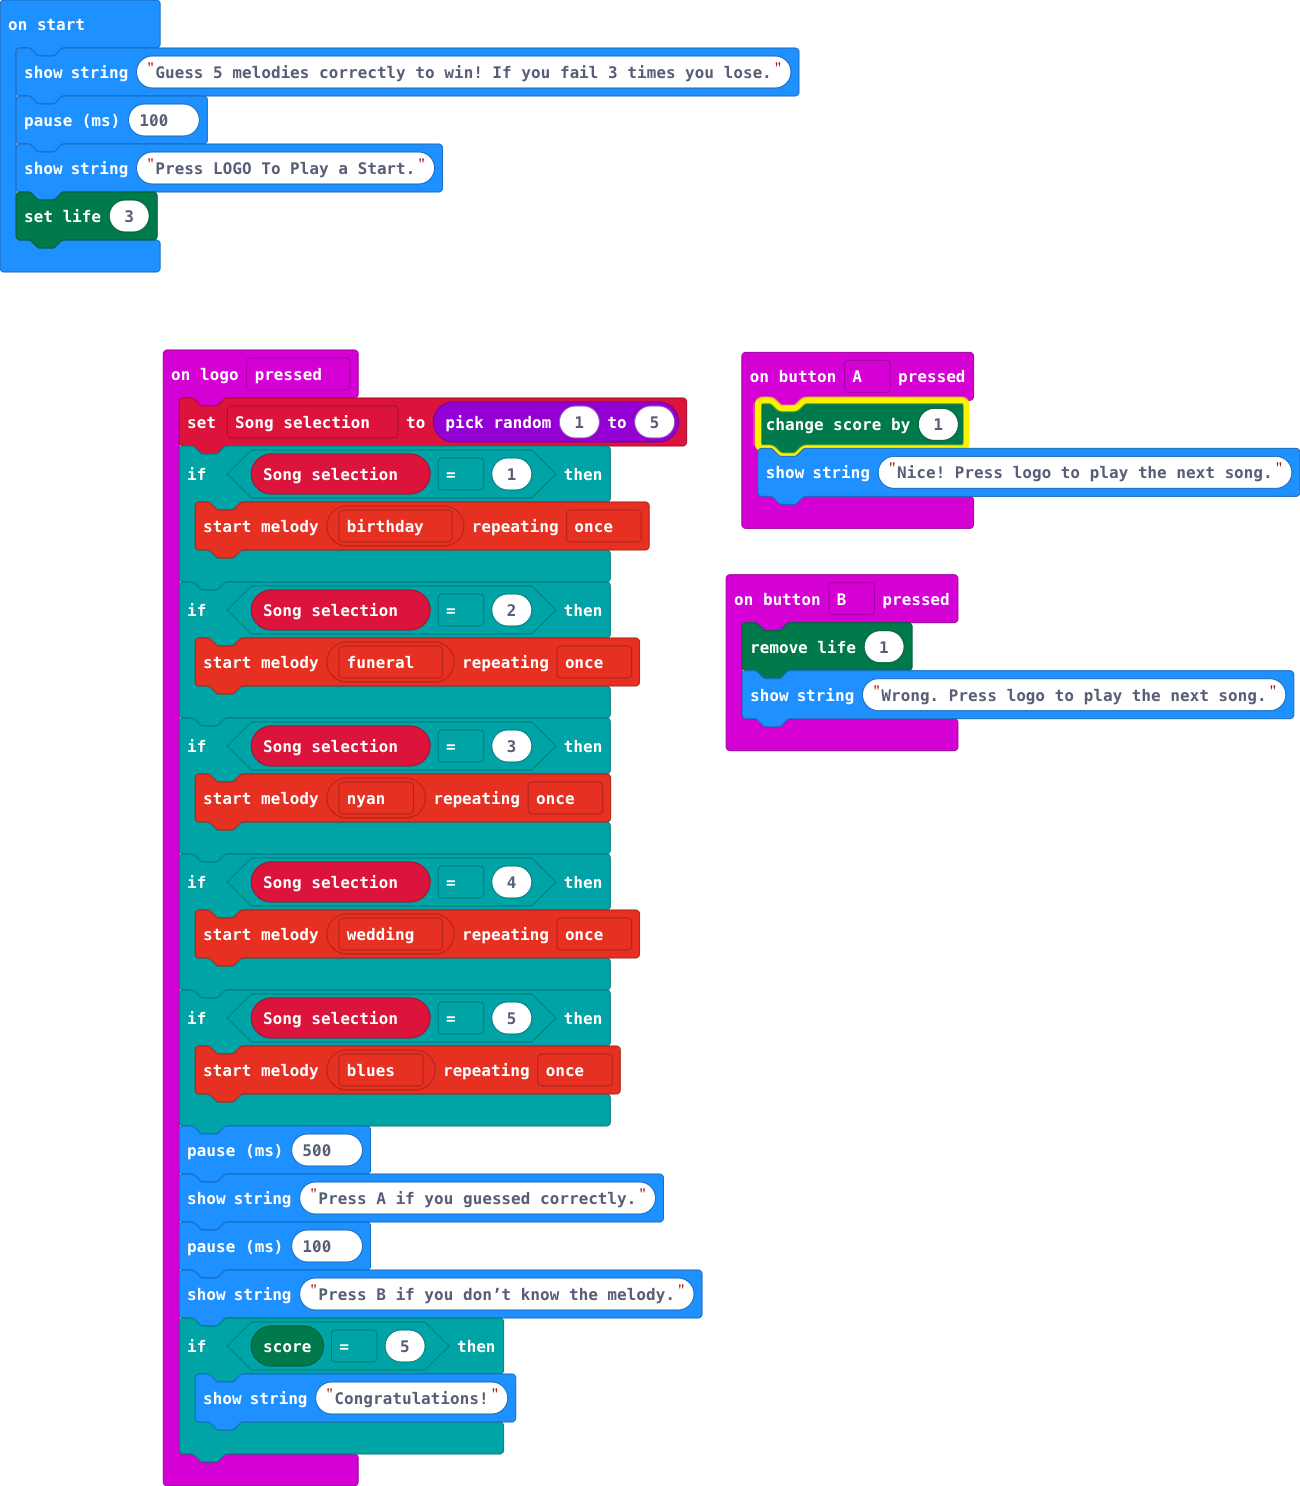
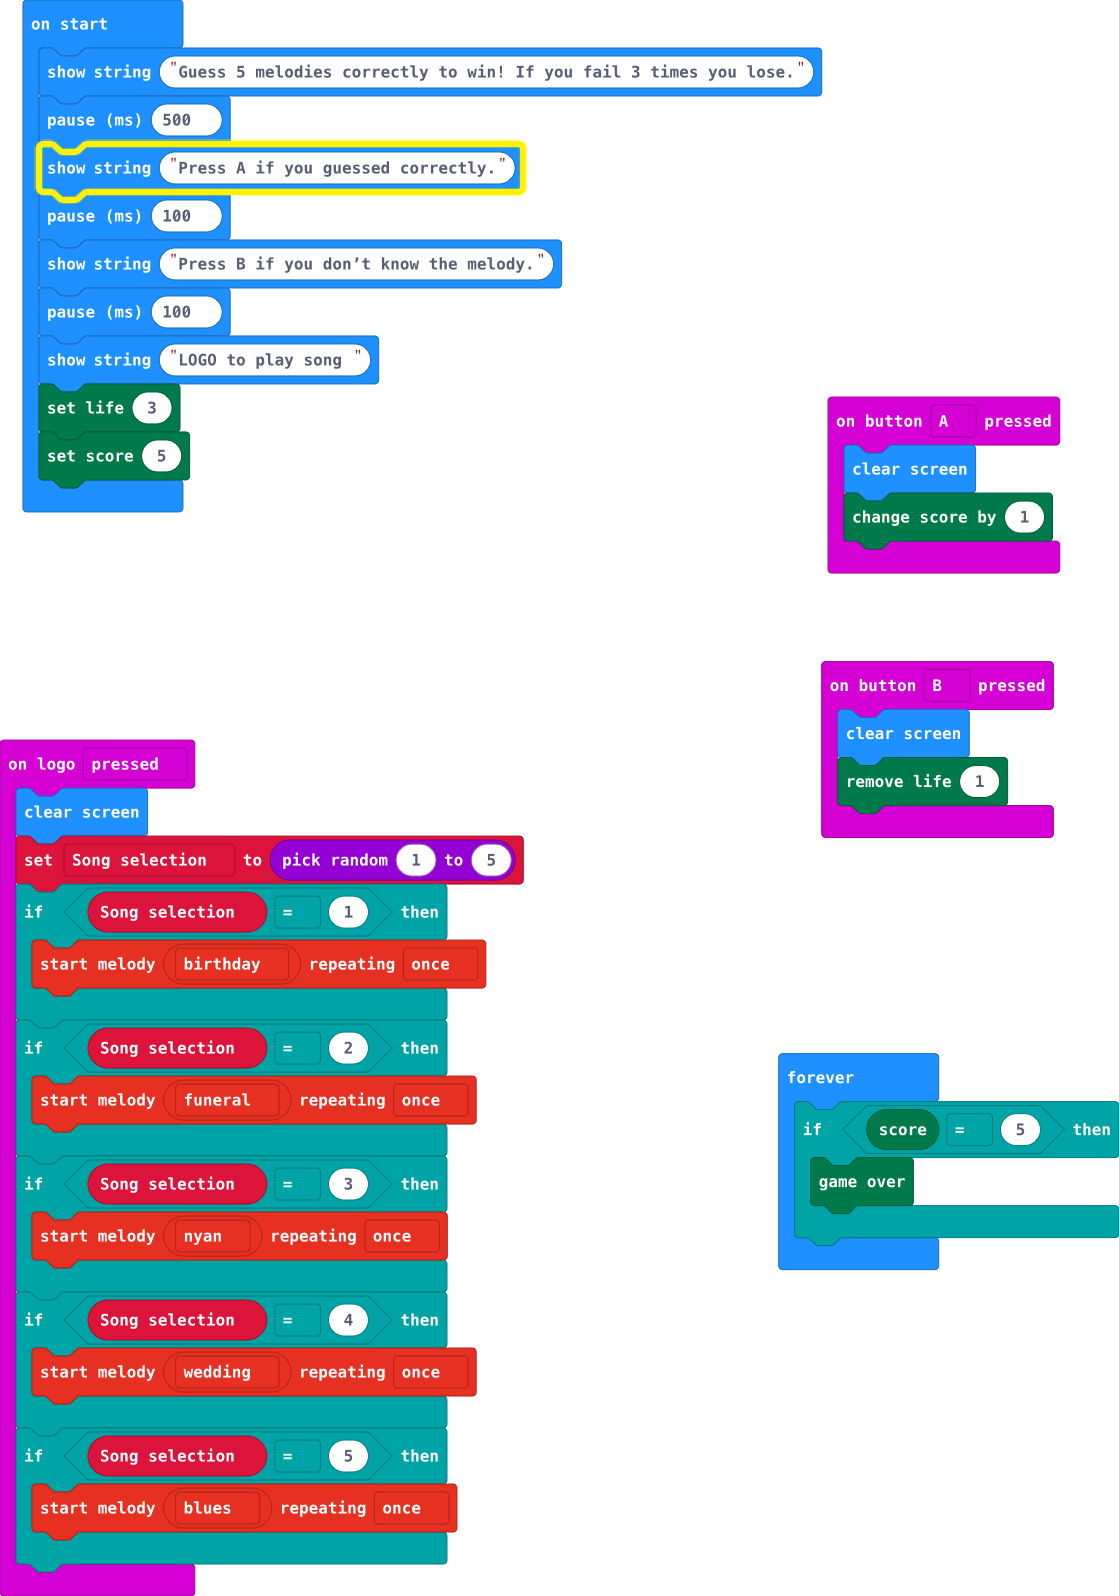
Update main.blocks, main.ts

diff --git a/main.ts b/main.ts
@@ -1,12 +1,13 @@
 input.onButtonPressed(Button.A, function () {
+    basic.clearScreen()
     game.addScore(1)
-    basic.showString("Nice! Press logo to play the next song.")
 })
 input.onButtonPressed(Button.B, function () {
+    basic.clearScreen()
     game.removeLife(1)
-    basic.showString("Wrong. Press logo to play the next song.")
 })
 input.onLogoEvent(TouchButtonEvent.Pressed, function () {
+    basic.clearScreen()
     Song_selection = randint(1, 5)
     if (Song_selection == 1) {
         music.startMelody(music.builtInMelody(Melodies.Birthday), MelodyOptions.Once)
@@ -23,16 +24,19 @@ input.onLogoEvent(TouchButtonEvent.Pressed, function () {
     if (Song_selection == 5) {
         music.startMelody(music.builtInMelody(Melodies.Blues), MelodyOptions.Once)
     }
-    basic.pause(500)
-    basic.showString("Press A if you guessed correctly.")
-    basic.pause(100)
-    basic.showString("Press B if you don’t know the melody.")
-    if (game.score() == 5) {
-        basic.showString("Congratulations!")
-    }
 })
 let Song_selection = 0
 basic.showString("Guess 5 melodies correctly to win! If you fail 3 times you lose.")
+basic.pause(500)
+basic.showString("Press A if you guessed correctly.")
 basic.pause(100)
-basic.showString("Press LOGO To Play a Start.")
+basic.showString("Press B if you don’t know the melody.")
+basic.pause(100)
+basic.showString("LOGO to play song ")
 game.setLife(3)
+game.setScore(5)
+basic.forever(function () {
+    if (game.score() == 5) {
+        game.gameOver()
+    }
+})
